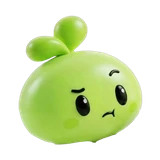
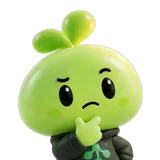
fix(landing): el tablero cabe completo en pantalla y los niveles muestran a Nico con cuerpo

diff --git a/Landing/estilos.css b/Landing/estilos.css
@@ -1017,3 +1017,20 @@ h2, .preguntas h2, .cierre__texto h2 { font-size: clamp(34px, min(4.6vw, 7.6svh)
 .cierre__imagen { align-self: end; justify-self: center; width: 100%; max-width: 430px; margin: 0 0 calc(var(--cierre-pad) * -1); border-radius: 0; overflow: visible; box-shadow: none; }
 .cierre__imagen img { display: block; width: 100%; height: auto; filter: drop-shadow(0 14px 22px rgba(11, 65, 40, .35)); }
 @media (max-width: 900px) { .cierre__imagen { max-width: 320px; } }
+
+/* Plataforma en escritorio: texto y pestañas a un lado para que el tablero quepa completo en pantalla */
+#plataforma .navegador__pantalla::after { content: ""; position: absolute; inset: auto 0 0; height: 5%; background: linear-gradient(180deg, transparent, var(--fondo)); pointer-events: none; }
+@media (min-width: 1000px) {
+  #plataforma.seccion { padding-block: 20px 48px; }
+  #plataforma .contenedor { display: grid; grid-template-columns: minmax(250px, 300px) minmax(0, 1fr); grid-template-rows: auto 1fr; gap: 16px 28px; align-items: start; }
+  #plataforma .cabecera { grid-column: 1; grid-row: 1; display: flex; flex-direction: column; align-items: stretch; gap: 14px; margin: 0; }
+  #plataforma .cabecera__texto { display: flex; flex-direction: column; align-items: flex-start; gap: 10px; }
+  #plataforma .cabecera h2 { font-size: clamp(28px, 2.5vw, 38px); line-height: 1.08; }
+  #plataforma .cabecera > .narra { align-self: stretch; max-width: none; padding: 8px 12px 8px 8px; border-radius: 22px; }
+  #plataforma .narra__nico { width: 54px; height: 54px; }
+  #plataforma .narra__nico .soft3d__img { width: 44px; max-height: 50px; }
+  #plataforma .narra p { font-size: 13px; line-height: 1.4; }
+  #plataforma .pestanas { grid-column: 1; grid-row: 2; display: grid; grid-template-columns: 1fr 1fr; width: 100%; margin: 0; border-radius: 18px; overflow: visible; }
+  #plataforma .pestanas button { padding: 9px 6px; font-size: 13.5px; border-radius: 14px; }
+  #plataforma .navegador { grid-column: 2; grid-row: 1 / span 2; justify-self: center; width: min(100%, max(600px, calc((100svh - var(--nav-alto) - 140px) * 1.6))); margin: 0; }
+}

diff --git a/Landing/index.html b/Landing/index.html
@@ -13,7 +13,7 @@
   <link rel="icon" href="favicon.png" type="image/png">
   <link rel="apple-touch-icon" href="apple-touch-icon.png">
   <link rel="preload" href="fuentes/PlusJakartaSans-800.woff2" as="font" type="font/woff2" crossorigin>
-  <link rel="stylesheet" href="estilos.css?v=20261118d">
+  <link rel="stylesheet" href="estilos.css?v=20261118f">
   <script src="tema.js"></script>
 </head>
 <body>
@@ -168,9 +168,9 @@
             <h3>Avisa</h3>
             <p>Al correo, al celular y en pantalla, en cuanto algo se sale de rango.</p>
             <ul class="niveles-nico" aria-label="Cómo reacciona Nico en cada nivel de alerta">
-              <li><img src="medios/nico/nivel-normal.webp?v=20261118e" alt="" width="160" height="160" loading="lazy"><span class="chip chip--ok">Normal</span></li>
-              <li><img src="medios/nico/nivel-advertencia.webp?v=20261118e" alt="" width="160" height="160" loading="lazy"><span class="chip chip--aviso">Advertencia</span></li>
-              <li><img src="medios/nico/nivel-peligro.webp?v=20261118e" alt="" width="160" height="160" loading="lazy"><span class="chip chip--critico">Peligro</span></li>
+              <li><img src="medios/nico/nivel-normal.webp?v=20261118f" alt="" width="160" height="160" loading="lazy"><span class="chip chip--ok">Normal</span></li>
+              <li><img src="medios/nico/nivel-advertencia.webp?v=20261118f" alt="" width="160" height="160" loading="lazy"><span class="chip chip--aviso">Advertencia</span></li>
+              <li><img src="medios/nico/nivel-peligro.webp?v=20261118f" alt="" width="160" height="160" loading="lazy"><span class="chip chip--critico">Peligro</span></li>
             </ul>
           </article>
           <article class="celda celda--dato celda--ancha anim" data-anim="subir" style="--d:.3s">
